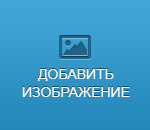
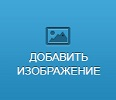
rtl style , resize of addimage file in gallery

diff --git a/appl/Static/tppcenter/css/rtl.css b/appl/Static/tppcenter/css/rtl.css
@@ -30,7 +30,7 @@ body, input, textarea, select{ text-align:right;}
 .tophead-l{ float:right; text-align:right;}
 .tophead-r{ float:left;}
 .news-logo{ float:right;}
-.community .newstitle label{ float:right; padding-right:8px;}
+.community .newstitle label{ float:right; padding-right:8px; direction:rtl!important; padding-right:12px;}
 .community .newstitle .notify{ float:left;}
 .community .newslink .left{ float:right; margin-right:12px;}
 .btnprofile, .less{ left:22px!important; right:auto!important;}
@@ -83,7 +83,7 @@ body, input, textarea, select{ text-align:right;}
     -o-transform: rotate(-90deg);
     -ms-transform: rotate(-90deg);
     -sand-transform: rotate(90deg);}
-.localmenu{ left:0; right:auto;}
+.localmenu{ left:auto; right:0;}
 .tender-action .icon-action{ float:right;}
 .tender-action .deletext{ padding-right:5px; padding-left:0;}
 .tender-list li .button-r{ right:auto; left:10px;}
@@ -201,3 +201,5 @@ div.fileinputs{ float:right; margin-right:30px;}
 .innov-tab-content li label{ width:92%;}
 .wall-title-bg{ direction:rtl;}
 .vacancy-list li .vacancy-desc a.more{ text-align:left;}
+
+.current-company .cpn-current{ direction:rtl;background:url(../img/arrow-white.png) no-repeat left center;}

diff --git a/tppcenter/templates/login_header.html b/tppcenter/templates/login_header.html
@@ -90,9 +90,9 @@
             <div style="width: 150px;padding-left: 100px;">
                     <select id="lang_select" style="height: 29px;" >
                         <option>{% trans 'Choose language' %}</option>
-                        <option value="ru">{% trans Russian %}</option>
-                        <option value="am">{% trans Armenian %}</option>
-                        <option value="en">{% trans English %}</option>
+                        <option value="ru">{% trans "Russian" %}</option>
+                        <option value="am">{% trans "Armenian" %}</option>
+                        <option value="en">{% trans "English" %}</option>
 
                     </select>
                 <script>

diff --git a/appl/Static/tppcenter/js/ui.js b/appl/Static/tppcenter/js/ui.js
@@ -850,8 +850,8 @@ var galleryUpload = { //Async gallery uploader (uploadify)
 
     options : {
         uploadLimit: 20,
-        height   : 130,
-        width    : 150,
+        height   : 105,
+        width    : 110,
         auto     : true,
         queueID  : 'queue'
     },

diff --git a/tppcenter/templates/Companies/tabGallery.html b/tppcenter/templates/Companies/tabGallery.html
@@ -23,7 +23,7 @@
         }
         #queue, #file_upload {
             float: left;
-            margin-left: 20px;
+            margin-left: 11px;
         }
         .uploader:after {
            content: "";

diff --git a/tpp/settings.py b/tpp/settings.py
@@ -26,6 +26,8 @@ ADMINS = (
     ('Iliya', 'afend@tppcenter.com'),
 )
 
+
+
 MANAGERS = ADMINS
 
 # Quick-start development settings - unsuitable for production

diff --git a/tpp/SiteUrlMiddleWare.py b/tpp/SiteUrlMiddleWare.py
@@ -76,6 +76,7 @@ class LocaleMiddleware(object):
         return response
 
 
+
 class GlobalRequest(object):
     _requests = {}
 
